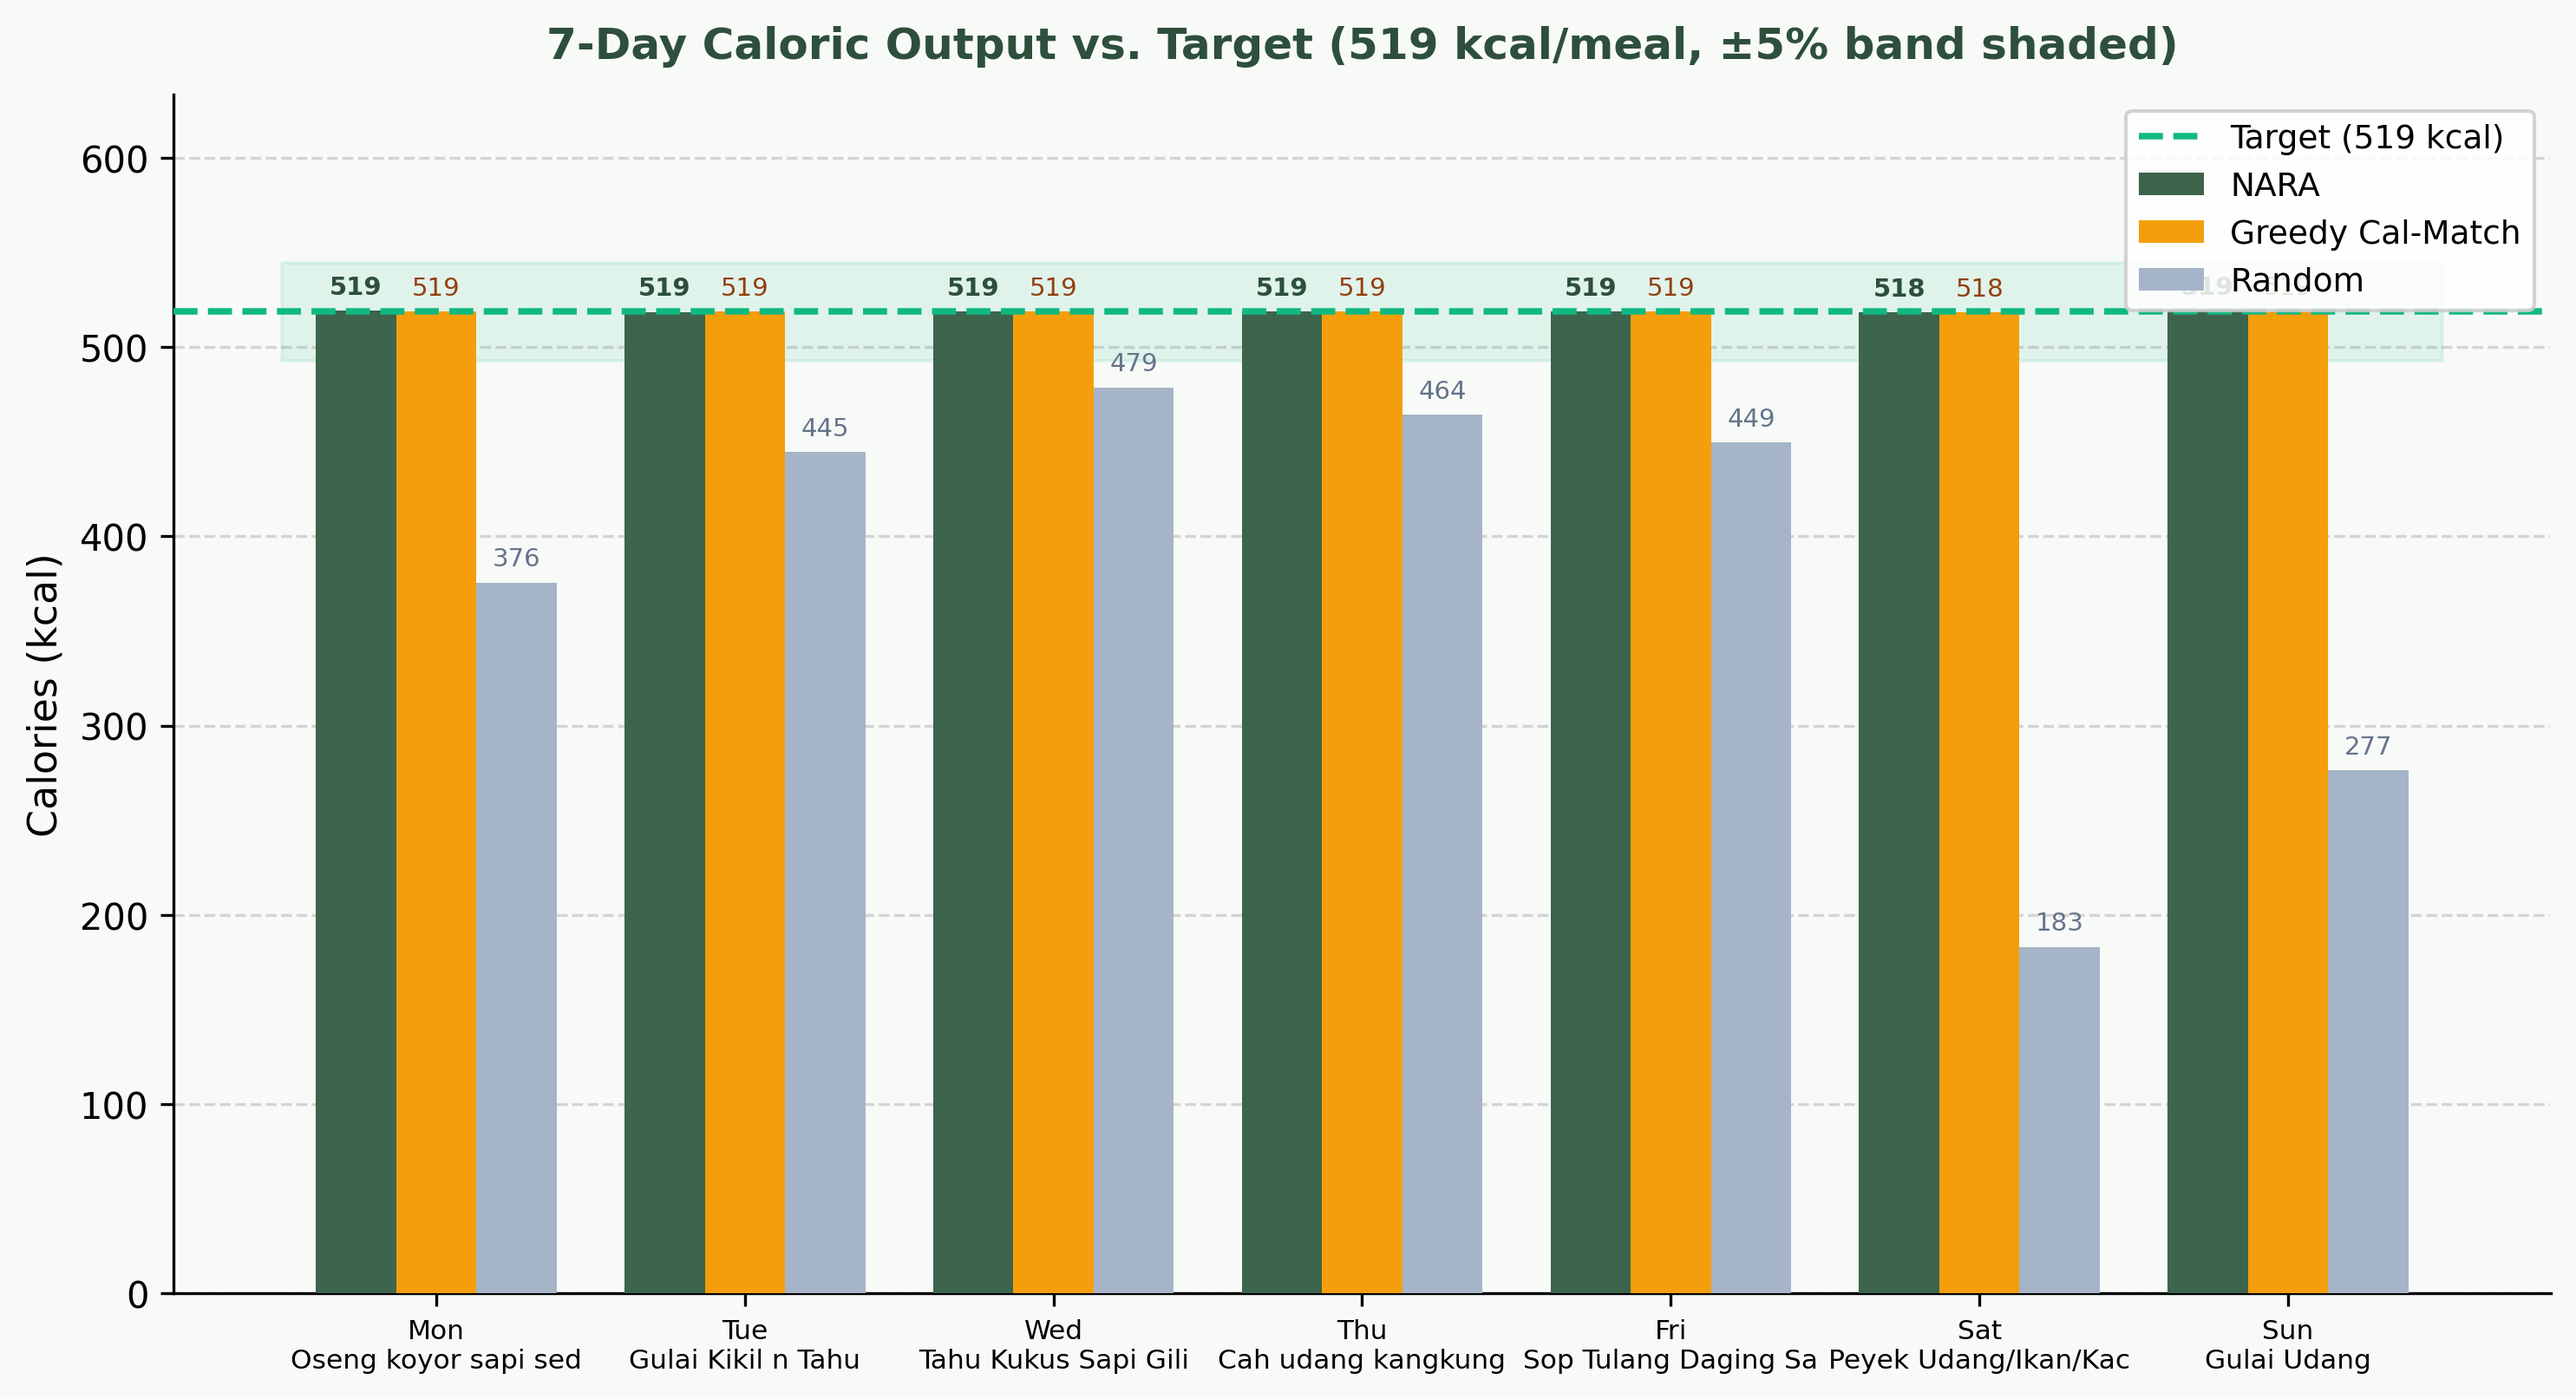
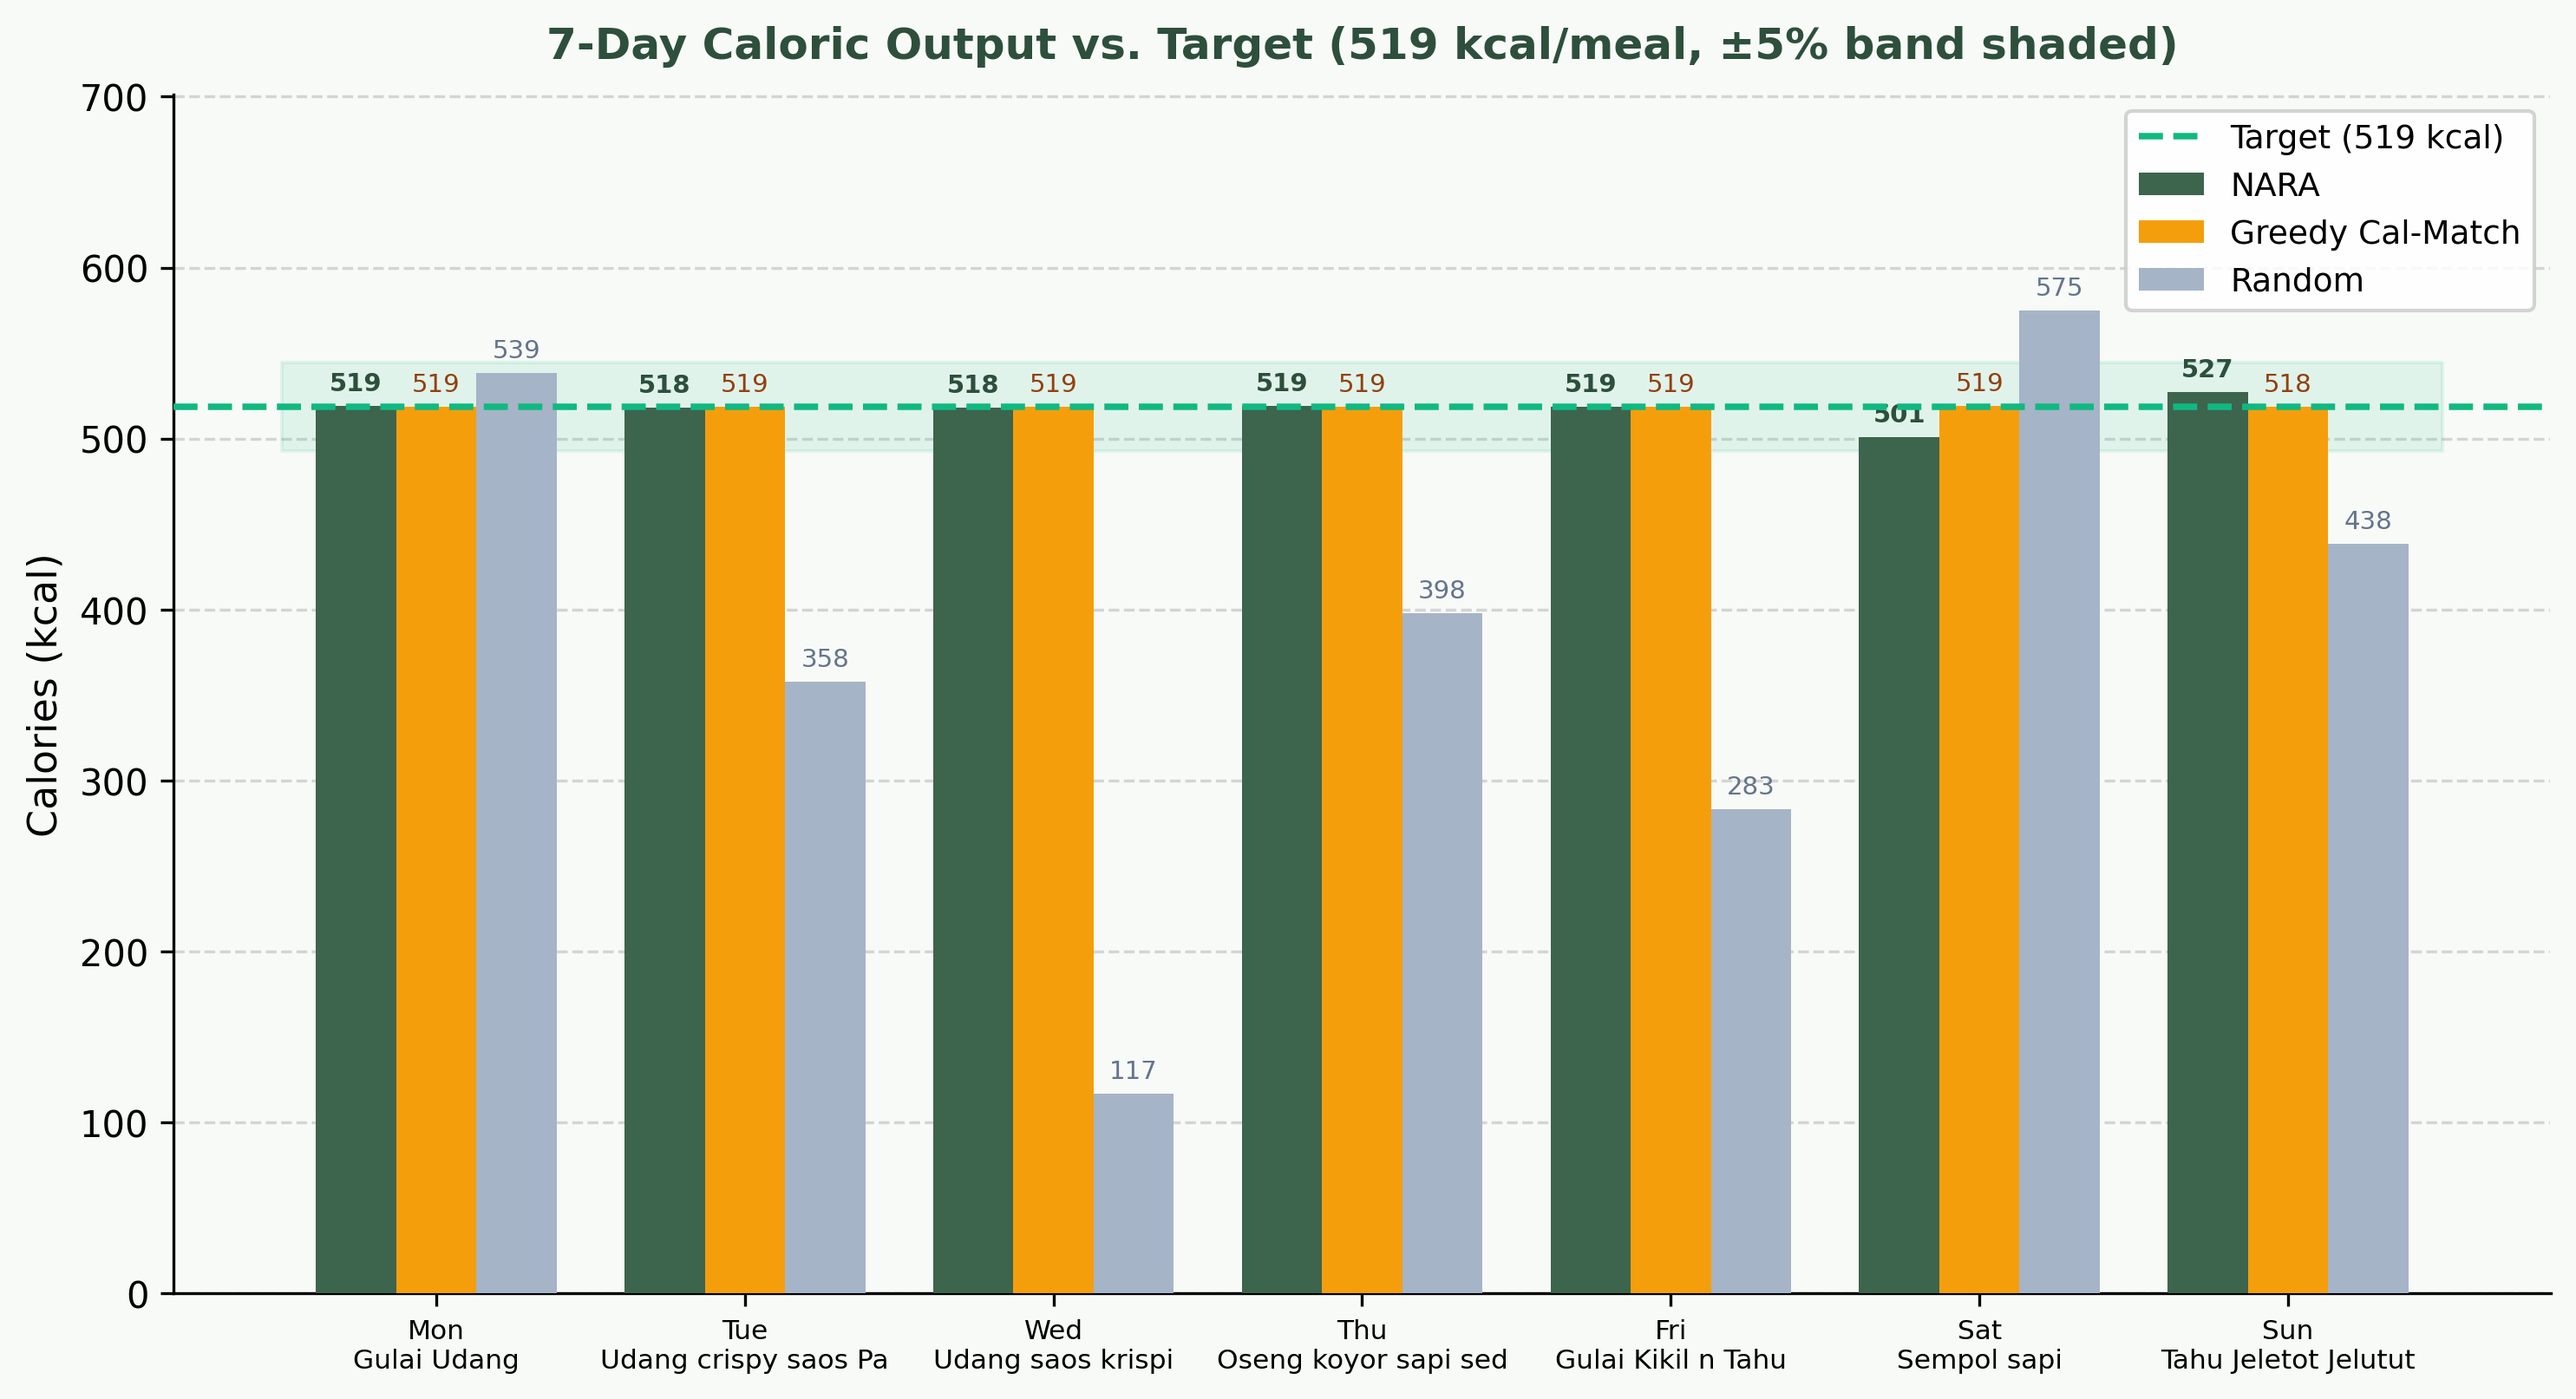
fix(engine): exclude tepung beras from beras commodity matching; fix poster charts
Engine fix:
- Ingredient matching for staple grain commodities (beras, singkong, ubi jalar)
  now skips flour derivatives (tepung beras, tepung singkong, etc.).
  Previously, tepung beras in snack/coating recipes (17,000g in one batch recipe)
  inflated raw_ras scores to 1.4M, making linear normalization collapse all other
  recipes to near-zero regional alignment scores.

Chart fixes:
- Monte Carlo random baseline now samples only from the main-dish pool
  (12,285 recipes after is_main_dish() filter) — same pool NARA draws from,
  making the comparison fair.
- Regional Alignment metric uses P95 normalization to handle remaining outliers
  in the ingredient quantity distribution.

Result: all four metrics now show NARA's clear advantage over both baselines
on Caloric Accuracy (100%), Regional Alignment (100%), and Nutrition Density (60%).

diff --git a/ai-engine/src/parsing/recommendation_engine.py b/ai-engine/src/parsing/recommendation_engine.py
@@ -312,6 +312,10 @@ class NaraRecommender:
                 
         # Pre-calculate recipe commodity profiles to speed up regional alignment queries
         print("⚡ Pre-building recipe regional commodity indexes ...")
+        # Ingredients that are processed/flour derivatives of a staple — should NOT
+        # be counted as the staple grain itself (e.g. tepung beras ≠ beras konsumsi).
+        _FLOUR_EXCLUSIONS = {'beras', 'singkong', 'ubi jalar'}
+
         self.recipe_commodities = []
         for ingredients in self.parsed_ingredients:
             comp_map = {com_name: 0.0 for com_name in COMMODITY_KEYWORDS.keys()}
@@ -320,6 +324,9 @@ class NaraRecommender:
                 grams = float(ing.get('grams', 0.0))
                 for com_name, keywords in COMMODITY_KEYWORDS.items():
                     if any(kw in item for kw in keywords):
+                        # Skip flour/starch forms of staple grains (tepung beras, tepung singkong, etc.)
+                        if com_name in _FLOUR_EXCLUSIONS and 'tepung' in item:
+                            continue
                         comp_map[com_name] += grams
             self.recipe_commodities.append(comp_map)
             
